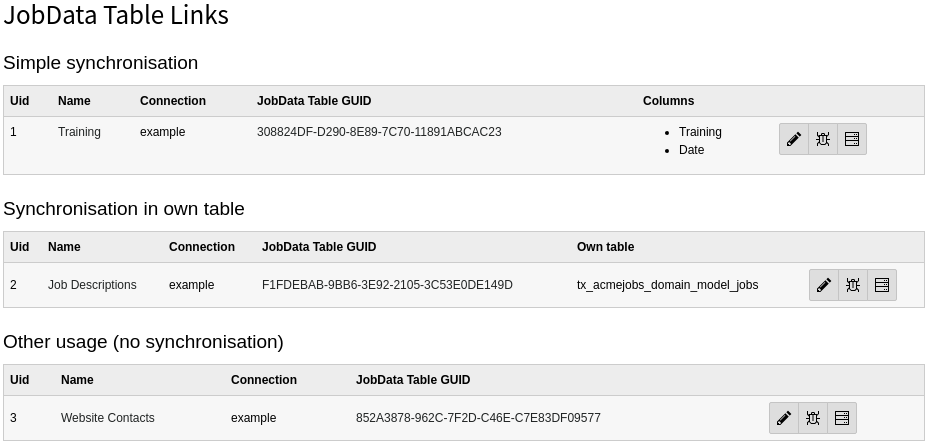
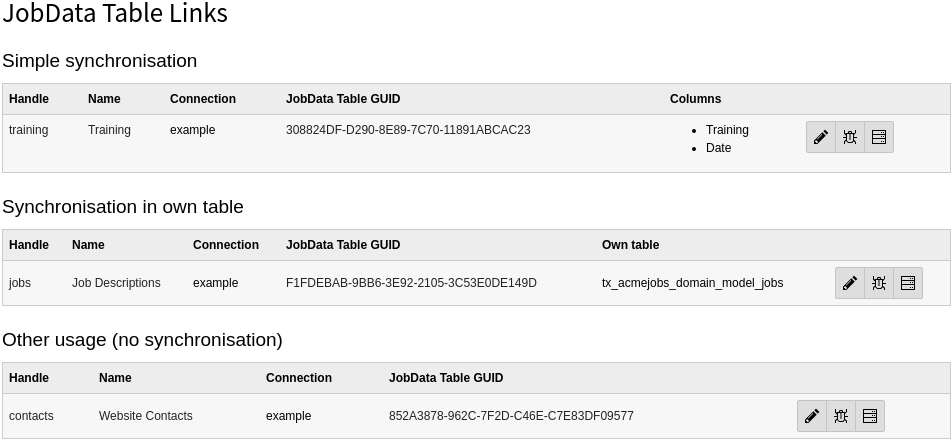
[FEATURE] Introduce a handle field for table links

diff --git a/Resources/Private/Templates/Backend/List.html b/Resources/Private/Templates/Backend/List.html
@@ -111,7 +111,7 @@
     </f:section>
 
     <f:section name="defaultColumnsHeader">
-        <th scope="col">Uid</th>
+        <th scope="col"><f:translate key="LLL:EXT:jobrouter_data/Resources/Private/Language/Database.xlf:tx_jobrouterdata_domain_model_table.handle"/></th>
         <th scope="col"><f:translate key="LLL:EXT:jobrouter_data/Resources/Private/Language/Database.xlf:tx_jobrouterdata_domain_model_table.name"/></th>
         <th scope="col"><f:translate key="LLL:EXT:jobrouter_data/Resources/Private/Language/Database.xlf:tx_jobrouterdata_domain_model_table.connection"/></th>
         <th scope="col"><f:translate key="LLL:EXT:jobrouter_data/Resources/Private/Language/Database.xlf:tx_jobrouterdata_domain_model_table.table_guid"/></th>
@@ -119,7 +119,7 @@
 
     <f:section name="defaultColumns">
         <td>
-            {table.uid}
+            <be:link.editRecord table="tx_jobrouterdata_domain_model_table" uid="{table.uid}" title="{f:translate(key: 'LLL:EXT:jobrouter_data/Resources/Private/Language/BackendModule.xlf:action.edit_table')}">{table.handle}</be:link.editRecord>
         </td>
         <td>
             <be:link.editRecord table="tx_jobrouterdata_domain_model_table" uid="{table.uid}" title="{f:translate(key: 'LLL:EXT:jobrouter_data/Resources/Private/Language/BackendModule.xlf:action.edit_table')}">{table.name}</be:link.editRecord>

diff --git a/Configuration/TCA/tx_jobrouterdata_domain_model_table.php b/Configuration/TCA/tx_jobrouterdata_domain_model_table.php
@@ -20,7 +20,7 @@ return [
             'disabled' => 'disabled',
         ],
         'rootLevel' => 1,
-        'searchFields' => 'name,table_guid',
+        'searchFields' => 'handle,name,table_guid',
         'iconfile' => 'EXT:' . \Brotkrueml\JobRouterData\Extension::KEY . '/Resources/Public/Icons/tx_jobrouterdata_domain_model_table.svg'
     ],
     'columns' => [
@@ -71,6 +71,16 @@ return [
                 'foreign_table' => 'tx_jobrouterconnector_domain_model_connection',
                 'foreign_table_where' => ' ORDER BY tx_jobrouterconnector_domain_model_connection.name',
                 'eval' => 'int,required',
+            ],
+        ],
+        'handle' => [
+            'exclude' => true,
+            'label' => \Brotkrueml\JobRouterData\Extension::LANGUAGE_PATH_DATABASE . ':tx_jobrouterdata_domain_model_table.handle',
+            'config' => [
+                'type' => 'input',
+                'size' => 30,
+                'max' => 30,
+                'eval' => 'alphanum_x,required,trim,unique'
             ],
         ],
         'name' => [
@@ -179,7 +189,7 @@ return [
     'types' => [
         (string)\Brotkrueml\JobRouterData\Domain\Model\Table::TYPE_SIMPLE => [
             'showitem' => '
-            type, connection, name, table_guid, columns,
+            type, connection, handle, name, table_guid, columns,
             --div--;LLL:EXT:core/Resources/Private/Language/Form/locallang_tabs.xlf:access,
             disabled,
             --div--;' . \Brotkrueml\JobRouterData\Extension::LANGUAGE_PATH_DATABASE . ':tab.status,
@@ -189,7 +199,7 @@ return [
         ],
         (string)\Brotkrueml\JobRouterData\Domain\Model\Table::TYPE_OWN_TABLE => [
             'showitem' => '
-            type, connection, name, table_guid, own_table,
+            type, connection, handle, name, table_guid, own_table,
             --div--;LLL:EXT:core/Resources/Private/Language/Form/locallang_tabs.xlf:access,
             disabled,
             --div--;' . \Brotkrueml\JobRouterData\Extension::LANGUAGE_PATH_DATABASE . ':tab.status,
@@ -199,7 +209,7 @@ return [
         ],
         (string)\Brotkrueml\JobRouterData\Domain\Model\Table::TYPE_OTHER_USAGE => [
             'showitem' => '
-            type, connection, name, table_guid,
+            type, connection, handle, name, table_guid,
             --div--;LLL:EXT:core/Resources/Private/Language/Form/locallang_tabs.xlf:access,
             disabled,
             --div--;LLL:EXT:frontend/Resources/Private/Language/locallang_tca.xlf:pages.tabs.extended,

diff --git a/Classes/Domain/Model/Table.php b/Classes/Domain/Model/Table.php
@@ -30,6 +30,9 @@ class Table extends AbstractEntity
     protected $type = 0;
 
     /** @var string */
+    protected $handle = '';
+
+    /** @var string */
     protected $name = '';
 
     /** @var \Brotkrueml\JobRouterConnector\Domain\Model\Connection|null */
@@ -86,6 +89,16 @@ class Table extends AbstractEntity
     public function setType(int $type): void
     {
         $this->type = $type;
+    }
+
+    public function getHandle(): string
+    {
+        return $this->handle;
+    }
+
+    public function setHandle(string $handle): void
+    {
+        $this->name = $handle;
     }
 
     public function getName(): string

diff --git a/Documentation/usage.rst b/Documentation/usage.rst
@@ -72,6 +72,7 @@ The following fields are available:
 General
 '''''''
 .. include:: table-link-columns/connection.txt
+.. include:: table-link-columns/handle.txt
 .. include:: table-link-columns/name.txt
 .. include:: table-link-columns/jobdata-table-guid.txt
 .. include:: table-link-columns/columns.txt
@@ -107,6 +108,7 @@ The following fields are available:
 General
 '''''''
 .. include:: table-link-columns/connection.txt
+.. include:: table-link-columns/handle.txt
 .. include:: table-link-columns/name.txt
 .. include:: table-link-columns/jobdata-table-guid.txt
 .. include:: table-link-columns/own-table.txt
@@ -141,6 +143,7 @@ The following fields are available:
 General
 '''''''
 .. include:: table-link-columns/connection.txt
+.. include:: table-link-columns/handle.txt
 .. include:: table-link-columns/name.txt
 .. include:: table-link-columns/jobdata-table-guid.txt
 

diff --git a/Documentation/developer.rst b/Documentation/developer.rst
@@ -150,9 +150,7 @@ Here is an example to get the table link and initialise the JobRouter Client:
 
    $objectManager = GeneralUtility::makeInstance(ObjectManager::class);
    $tableRepository = $objectManager->get(TableRepository::class);
-
-   // Get the table with uid 3
-   $table = $tableRepository->findByIdentifier(3);
+   $table = $tableRepository->findOneByHandle('contacts');
 
    $connection = $table->getConnection();
    if ($connection) {
